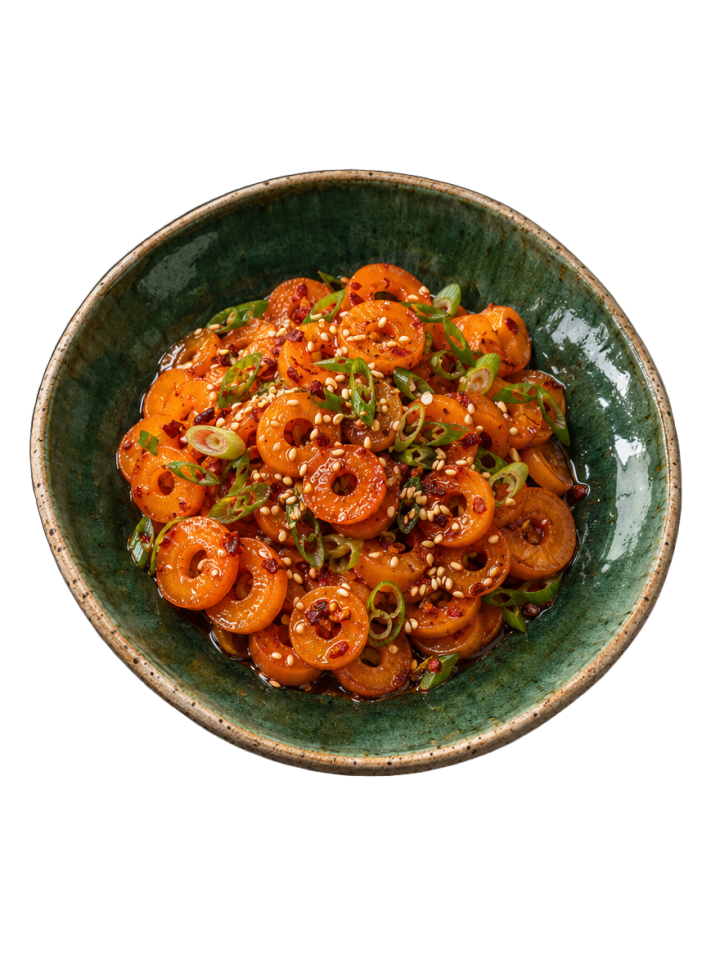
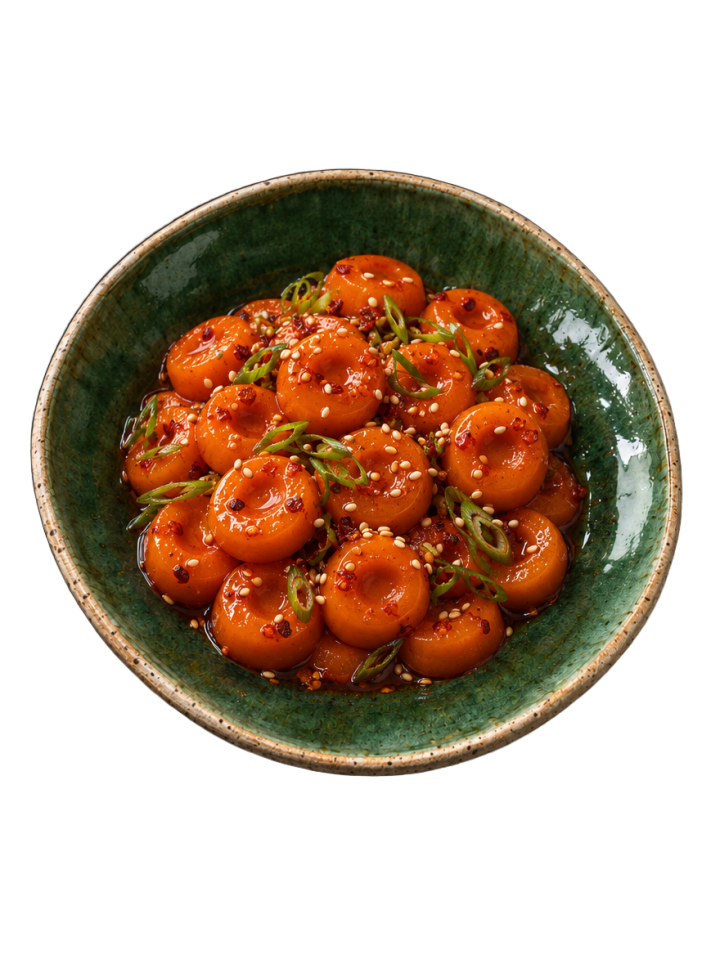
Carrot buttons as in the video: rolled by hand and pressed with a thumb, new frames and text

diff --git a/src/data/swipe.ts b/src/data/swipe.ts
@@ -898,11 +898,11 @@ const eggplanttofu: SwipeRecipe = {
 // a dough with tapioca starch, shaped into rings with the chef's knife and boiled again.
 const carrotrings: SwipeRecipe = {
   id: 'carrotrings',
-  name: "Морквяні кружечки з чилі-олією",
+  name: "Морквяні гудзики з чилі-олією",
   hero: require('../../assets/recipes/carrotrings/bowl2.png'),
   portion: "2 порції",
   price: "≈70 ₴",
-  lead: "Жувальна локшинка-кружечки з моркви й тапіоки, без глютену. Секрет у сухому пюре: що менше в ньому води, то легше ліпити.",
+  lead: "Жувальні морквяні «гудзики» з двох інгредієнтів, без глютену, схожі на моті. Секрет у сухому пюре: що менше в ньому води, то легше ліпити руками.",
   modes: [{ key: 'pot', label: 'Каструлька', time: '45 хв' }],
   ing: [
     { name: "Морква", qty: "400 г" },
@@ -916,8 +916,8 @@ const carrotrings: SwipeRecipe = {
   warn: [
     ["Тісто липне до рук", "У пюре лишилось багато води. Додай ще трохи крохмалю, по ложці, поки тісто не перестане липнути."],
     ["Тісто кришиться", "Пюре охололо, коли ти додав крохмаль. Вимішуй, поки воно гаряче, або додай ложку гарячої води."],
-    ["Кружечки злиплись", "Їх варили забагато за раз. Вари невеликими порціями і одразу промий холодною водою."],
-    ["Кружечки гумові", "Їх переварили. Після того як спливли, достатньо ще 1 хвилини."],
+    ["Гудзики злиплись", "Їх варили забагато за раз. Вари невеликими порціями і одразу промий холодною водою."],
+    ["Гудзики гумові", "Їх переварили. Після того як спливли, достатньо ще 1 хвилини."],
   ],
   frames: {
     ing: { src: require('../../assets/recipes/carrotrings/ing.png') },
@@ -964,17 +964,17 @@ const carrotrings: SwipeRecipe = {
       },
       {
         f: 'shape',
-        t: "Зліпи кружечки",
-        p: "Розкачай тісто джгутом, наріж ножем на маленькі шматочки і зліпи з кожного кружечок з дірочкою посередині.",
-        d: "**Готово, коли** всі кружечки однакові, приблизно 2 см.",
-        tip: "Присип дошку крохмалем, щоб кружечки не прилипали.",
+        t: "Зліпи гудзики пальцями",
+        p: "Відщипуй шматочки тіста завбільшки з велику вишню, скачай між долонями кульку, поклади на долоню і придави великим пальцем посередині, щоб вийшов товстий гудзик з ямкою.",
+        d: "**Готово, коли** всі гудзики однакові, приблизно 3 см у діаметрі, з ямкою посередині.",
+        tip: "Ямка — не дірка: тисни, поки не відчуєш долоню крізь тісто, але не проривай. Так гудзик рівно провариться.",
       },
       {
         f: 'pot2',
-        t: "Звари кружечки",
+        t: "Звари гудзики",
         p: "Вари порціями в киплячій воді. Коли спливуть, ще 1 хвилина. Дістань шумівкою і швидко промий холодною водою.",
-        d: "**Готово, коли** кружечки спливли і стали напівпрозорими.",
-        tip: "Холодна вода зупиняє варіння, і кружечки лишаються жувальними, а не гумовими.",
+        d: "**Готово, коли** гудзики спливли і стали блискучими.",
+        tip: "Холодна вода зупиняє варіння, і гудзики лишаються жувальними, а не гумовими.",
         timer: 60,
         jolt: true,
       },
@@ -984,8 +984,8 @@ const carrotrings: SwipeRecipe = {
     {
       f: 'bowl1',
       t: "Переклади в миску",
-      p: "Переклади ще теплі кружечки в миску.",
-      d: "**Готово, коли** кружечки в мисці й не злиплись.",
+      p: "Переклади ще теплі гудзики в миску.",
+      d: "**Готово, коли** гудзики в мисці й не злиплись.",
       tip: "Заправляй, поки вони теплі: так соус краще вбирається.",
     },
     {
@@ -993,7 +993,7 @@ const carrotrings: SwipeRecipe = {
       t: "Заправ і посип",
       p: "Додай олію чилі, сушений часник і кокосовий аміно, перемішай. Посип зеленою цибулею і кунжутом.",
       d: "**Смачного!**",
-      tip: "Соус можна будь-який: кружечки нейтральні на смак і беруть на себе все, з чим їх змішати.",
+      tip: "Соус можна будь-який: гудзики нейтральні на смак і беруть на себе все, з чим їх змішати.",
     },
   ],
 };
